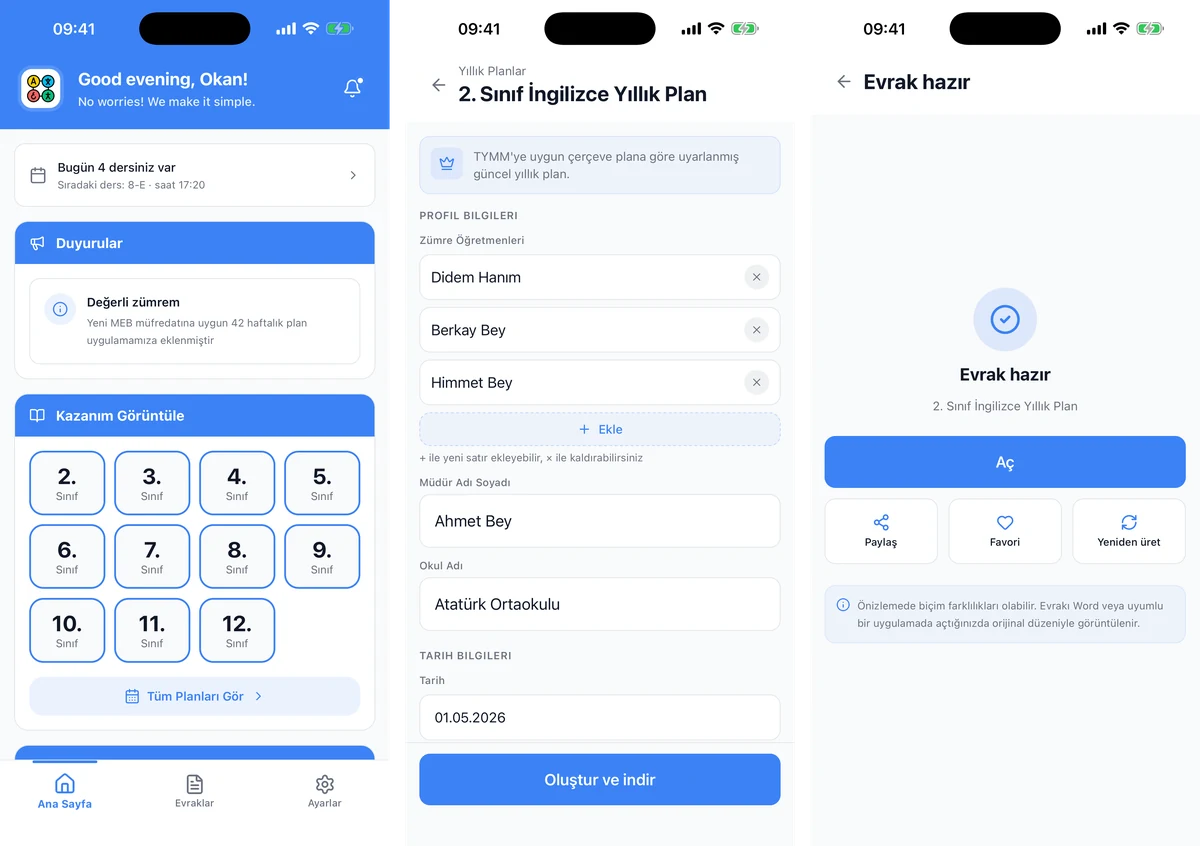
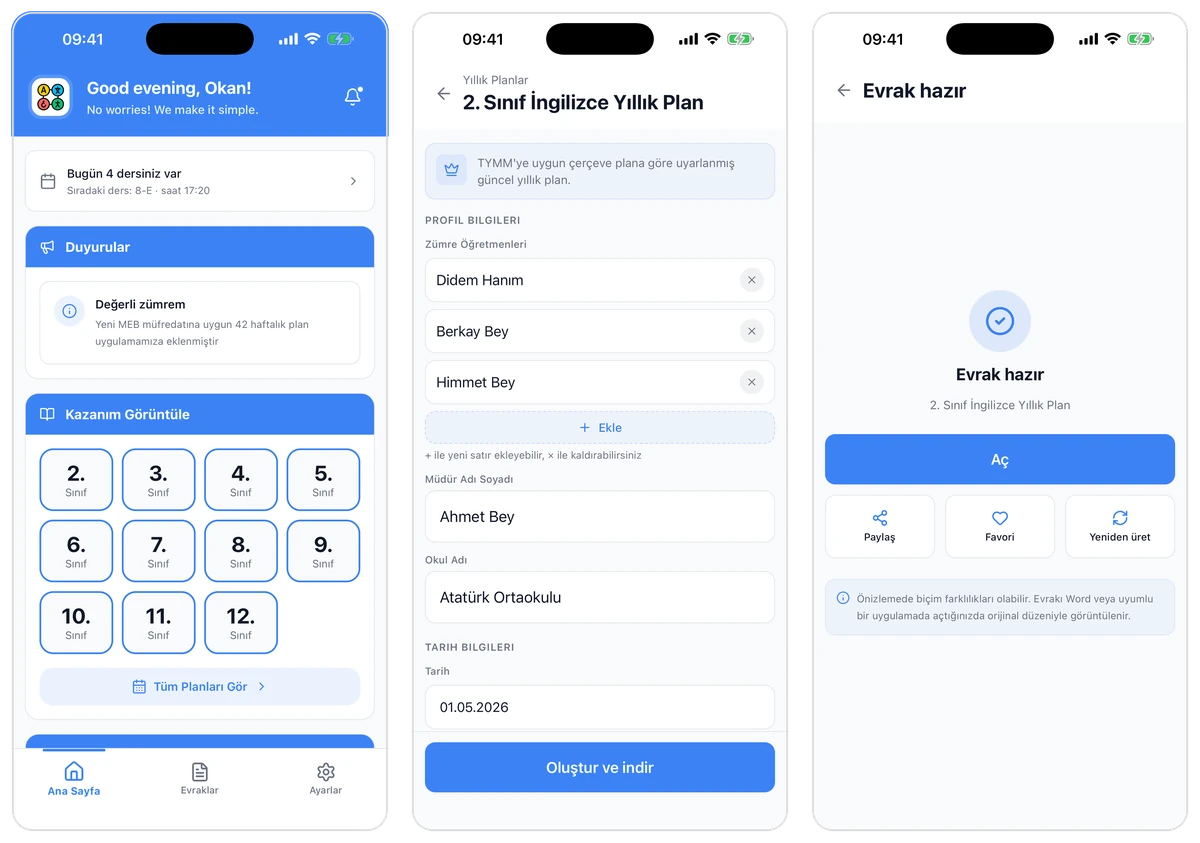
docs(ingilizceciyiz): correct timeline, add usage metrics

diff --git a/ingilizceciyiz.md b/ingilizceciyiz.md
@@ -8,8 +8,8 @@ A digital assistant for English teachers in Turkey that automates the creation o
 
 | | |
 | :--- | :--- |
-| Role | Sole developer |
-| Timeline | September 2023 – present |
+| Role | Sole developer of the current platform |
+| Timeline | August 2025 – present · app in the stores since September 2023 |
 | Status | Live on the App Store and Google Play |
 | Links | [App Store](https://apps.apple.com/tr/app/ingilizceciyiz/id6459478322) · [Google Play](https://play.google.com/store/apps/details?id=com.ingilizceciyiz.ingilizceciyiz) · [ingilizceciyizmobil.com](https://ingilizceciyizmobil.com) |
 
@@ -20,6 +20,8 @@ Turkish teachers are required to file a large amount of paperwork every term. A 
 Two things make this expensive. The first is finding the correct, current template for each document. The second is that every one of those templates asks for the same information again: the teacher's name, the school, the principal, the department, the class, the academic dates. So the work is not writing — it is locating a file, opening it in Word, and retyping details that have not changed since the last document, once per document, once per class, every term.
 
 ## What I built
+
+**Rebuilt from scratch.** The app had been in the stores since 2023 when I took it over in August 2025. Everything below is the platform I wrote to replace it; the rebuild shipped in April 2026 and has been the live product since.
 
 **Fill it in once, reuse it everywhere.** The core of the data model is a `variables` table whose every entry belongs to one of four namespaces: `profile`, `class`, `date` or `custom`. Profile variables come from the teacher's account, class variables from the class they picked, date variables from the academic calendar, and only genuinely one-off values are typed by hand. A companion table binds each document template to the variables it needs, marking which are required and in what order — so the form a teacher sees is generated from the template itself, already filled with everything the system knows.
 
@@ -70,6 +72,8 @@ flowchart TD
 
 **CI enforces what review would otherwise have to catch.** GitHub Actions runs lint, typecheck and build, deploys edge functions, and runs `gitleaks` for secret scanning alongside a dependency audit. A Husky pre-push hook applies the same rules locally through Turborepo, so failures arrive before the push rather than after it.
 
+**Backups are a feature, not a runbook step.** A dedicated edge function exports the full database, and the admin panel downloads it in one click. Whatever the hosting platform provides by default is a floor, not a plan.
+
 **Delivery is deliberately boring.** Web deploys to Cloudflare Pages on push to `main`. Mobile builds through EAS, and JavaScript-only fixes ship as over-the-air updates without waiting for store review — which matters when a teacher hits a bug during a lesson.
 
 **Performance is a budget, not a hope.** The home page scored 94 on Lighthouse performance one week and 72 the next, and six days passed before anyone noticed — a hero animation, a React theme island and analytics loading too early. So I wrote a measurement command: it runs Lighthouse under a mobile preset on throttled 4G, applies a resource and timing budget, takes the median of several runs and exits non-zero if any category falls below its threshold. I keep it out of CI on purpose and run it whenever the three files behind that regression are touched, so the check stays a decision rather than an automatic gate. In the most recent measured run, on 26 August 2026, the live site scored 100 in all four PageSpeed Insights categories on mobile.
@@ -100,10 +104,11 @@ flowchart TD
 
 ## Outcome
 
+- **11,277 documents generated** by **1,134 teachers** as of 26 August 2026 — roughly ten each
+- **1,069 document templates** across eight categories — the catalogue tracks the syllabus, and 444 daily plans were retired in 2026 after a curriculum update
 - **23,000+ downloads** — 13,594 on the App Store, 10,000+ on Google Play
-- **In production since September 2023**, across three back-to-school cycles
+- **In the stores since September 2023**, across three back-to-school cycles; the rebuilt platform shipped in April 2026
 - **[PageSpeed Insights](https://pagespeed.web.dev/analysis?url=https://ingilizceciyizmobil.com/) 100 / 100 / 100 / 100 on mobile** — performance, accessibility, best practices and SEO, measured 26 August 2026, with LCP at 1.4 s, TBT at 0 ms and CLS at 0 on an emulated Moto G Power over throttled 4G
-- Paid subscriptions running on both platforms
 - Over 1,100 commits, still in active development
 
 ![PageSpeed Insights — 100 across performance, accessibility, best practices and SEO](assets/ingilizceciyiz/pagespeed.webp)

diff --git a/README.md b/README.md
@@ -13,6 +13,6 @@
 
 | Case | What it is | Stack | Outcome |
 | :--- | :--- | :--- | :--- |
-| **[İngilizceciyiz](ingilizceciyiz.md)** | Generates the official paperwork Turkish teachers file each term, personalized from data entered once | Expo · Astro · Supabase · Turborepo | 23,000+ downloads · PageSpeed 100/100/100/100 |
+| **[İngilizceciyiz](ingilizceciyiz.md)** | Generates the official paperwork Turkish teachers file each term, personalized from data entered once | Expo · Astro · Supabase · Turborepo | 11,277 documents generated by 1,134 teachers |
 
 <sub>More cases are being written. Source repositories stay private; these documents exist so the work is still readable.</sub>
